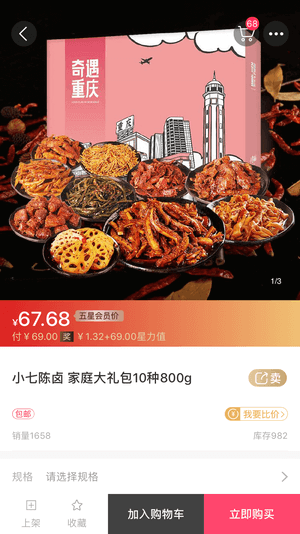
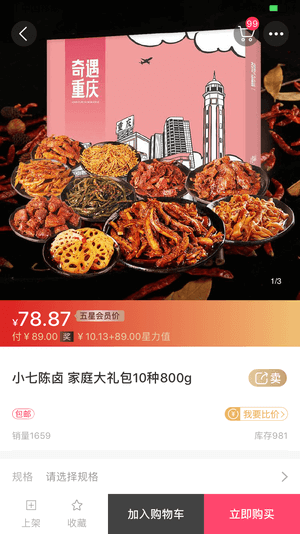
commit

diff --git a/others/MyStore/data/dataFood.js b/others/MyStore/data/dataFood.js
@@ -530,8 +530,8 @@ window.dataFood = {
     {
       title: '小七陈卤-家庭大礼包10种-800g',
       keywords: ['小七陈卤', '卤味'],
-      goodsPrice: 69,
-      commission: 1.32,
+      goodsPrice: 89,
+      commission: 10.13,
       pictures: [
         {
           type: 'star',
